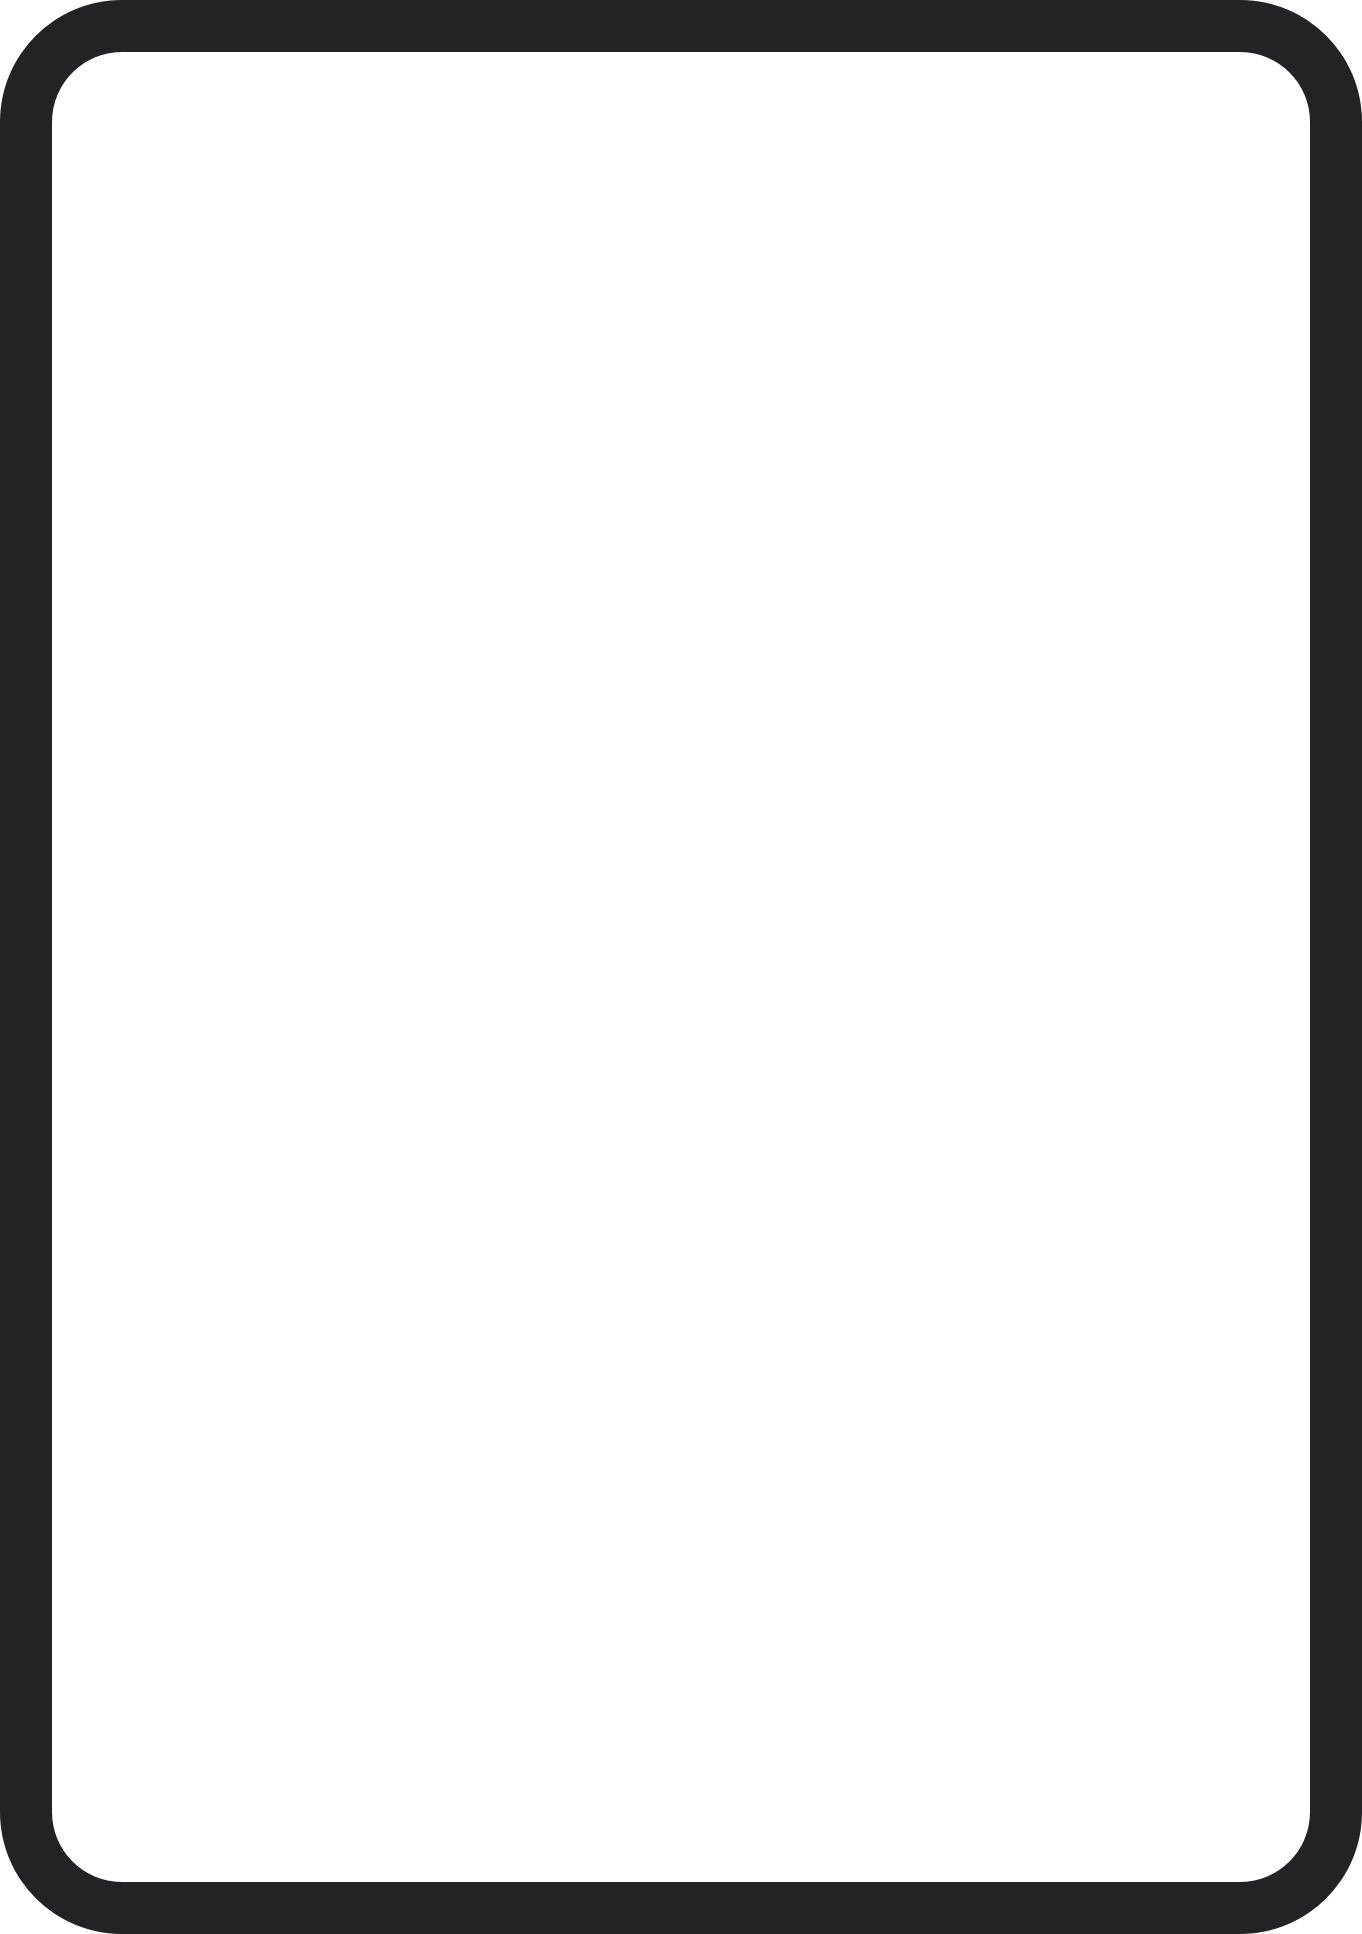
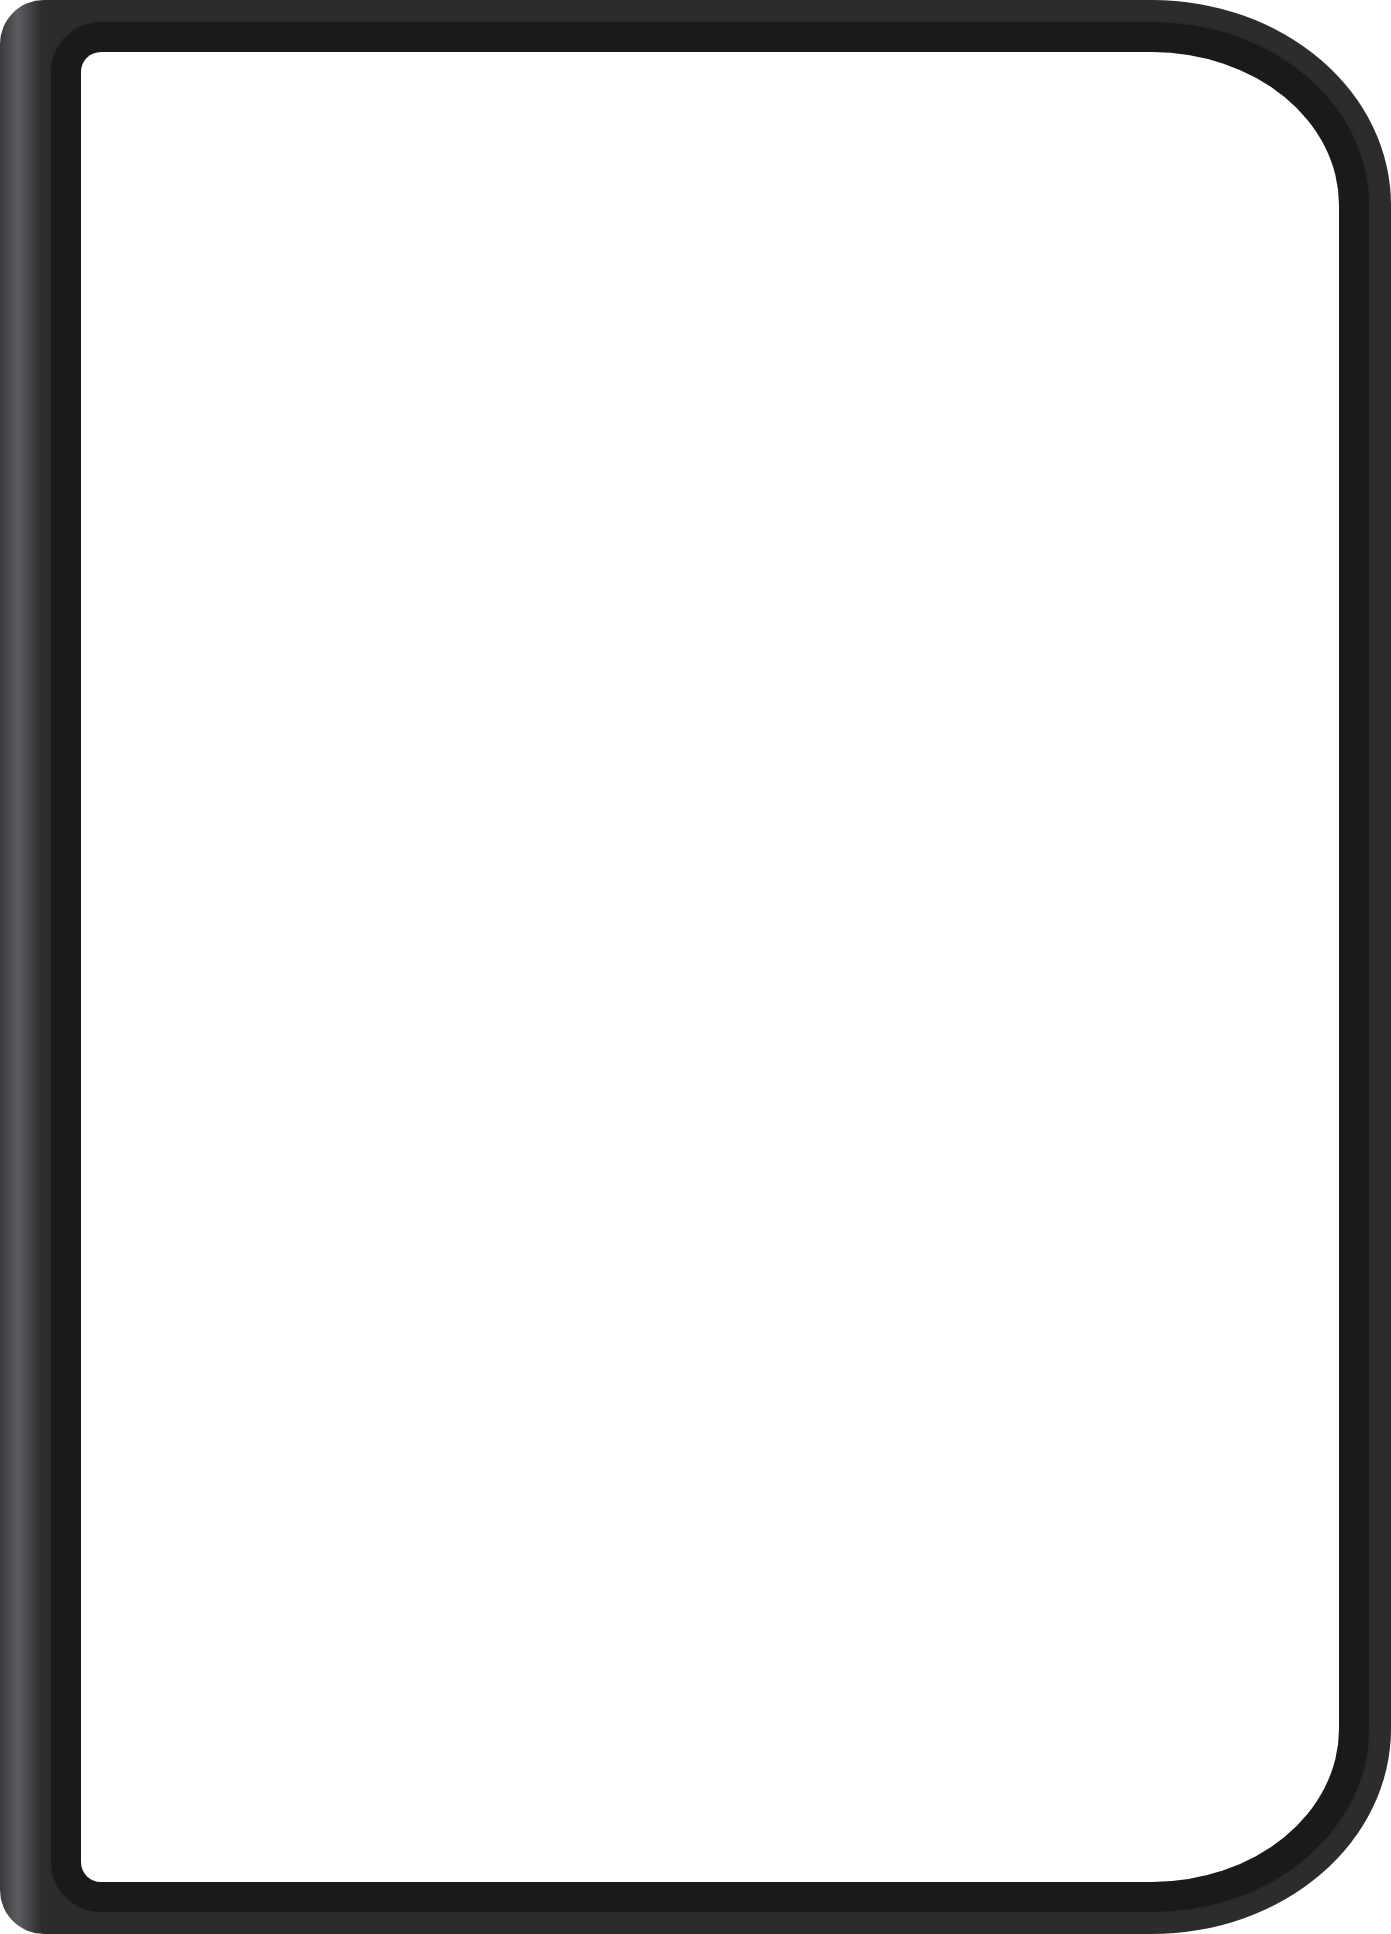
Shape the iPhone Duo frame like Apple's outer-display diagram
The frame was a symmetric rounded rectangle. Apple's "Designing for iPhone
Duo" diagram shows the hinge along the left edge, squarer corners on that
side, large rounded corners on the other, and the camera near the top right.

A frame can now give the leading (hinge) side its own corner radius and a
camera cutout drawn over the screenshot; the camera sits where the
simulator draws its hole. iPhone and iPad slides are unchanged.

Changed region(s): [[0.0, 0.0, 0.0925, 1.0], [0.8326, 0.8997, 1.0, 1.0], [0.8634, 0.0, 1.0, 0.0931]]

diff --git a/src/marketing.ts b/src/marketing.ts
@@ -25,6 +25,11 @@ export interface FrameGeometry {
   /** Elliptical corner radius of the screen cutout, as a fraction of the screen box's own width/height. */
   screenRadiusXPct: number;
   screenRadiusYPct: number;
+  /** Corner radius on the leading (left) side instead, where a hinge squares the screen's corners. */
+  screenLeadingRadiusXPct?: number;
+  screenLeadingRadiusYPct?: number;
+  /** A camera cutout drawn over the screenshot: centre and diameter as fractions of the screen box's width/height. */
+  camera?: { centerXPct: number; centerYPct: number; diameterPct: number };
   /** Filename under assets/device-frames/ (also the emitted assets/<name> filename). */
   assetFile: string;
 }
@@ -37,11 +42,14 @@ export const IPHONE_FRAME: FrameGeometry = { canvasWidthPx: 1022, canvasHeightPx
 // geometry below must match exactly what generated that file (see docs comment there / PR body).
 export const IPAD_FRAME: FrameGeometry = { canvasWidthPx: 1600, canvasHeightPx: 2078, screenLeftPct: 70 / 1600, screenTopPct: 70 / 2078, screenWidthPct: 1460 / 1600, screenHeightPct: 1938 / 2078, screenRadiusXPct: 40 / 1460, screenRadiusYPct: 40 / 1938, assetFile: "ipad-frame.png" };
 
-// Generated geometric frame in the iPad frame's style and bezel colour (#1A1A1C): a 52 px bezel,
-// outer corner radius 122, and a transparent 1258x1830 cutout with radius 70, in the outer
-// display's aspect (1398x2034, the display the simulator captures folded). An inner-display
-// capture (2007x2853) is slightly narrower in aspect and is cropped about 2% at the sides.
-export const IPHONE_DUO_FRAME: FrameGeometry = { canvasWidthPx: 1362, canvasHeightPx: 1934, screenLeftPct: 52 / 1362, screenTopPct: 52 / 1934, screenWidthPct: 1258 / 1362, screenHeightPct: 1830 / 1934, screenRadiusXPct: 70 / 1258, screenRadiusYPct: 70 / 1830, assetFile: "iphone-duo-frame.png" };
+// Generated frame in the shape Apple's "Designing for iPhone Duo" diagrams give the outer display
+// (Human Interface Guidelines, Anatomy): the hinge along the left edge, with squarer corners on that
+// side and the large rounded corners on the other. A 32 px bezel in the iPad frame's colour (#1A1A1C)
+// around a transparent 1258x1830 cutout in the outer display's aspect (1398x2034), inside the back
+// half's rim: 20 px, and 49 px along the hinge. The camera sits where the simulator draws its hole,
+// near the top right; it is drawn over the screenshot, so every slide shows it in the same place.
+// An inner-display capture (2007x2853) is slightly narrower in aspect and is cropped about 2% at the sides.
+export const IPHONE_DUO_FRAME: FrameGeometry = { canvasWidthPx: 1391, canvasHeightPx: 1934, screenLeftPct: 81 / 1391, screenTopPct: 52 / 1934, screenWidthPct: 1258 / 1391, screenHeightPct: 1830 / 1934, screenRadiusXPct: 187 / 1258, screenRadiusYPct: 153 / 1830, screenLeadingRadiusXPct: 20 / 1258, screenLeadingRadiusYPct: 20 / 1830, camera: { centerXPct: 0.897, centerYPct: 0.0703, diameterPct: 0.0794 }, assetFile: "iphone-duo-frame.png" };
 
 export function frameForFamily(family: ScreenshotFamily): FrameGeometry { return family === "iphone" ? IPHONE_FRAME : family === "iphone-duo" ? IPHONE_DUO_FRAME : IPAD_FRAME; }
 
@@ -214,6 +222,9 @@ export function renderSlideHtml(entry: MarketingSlideEntry): string {
   const screenHeight = box.height * frame.screenHeightPct;
   const radiusX = screenWidth * frame.screenRadiusXPct;
   const radiusY = screenHeight * frame.screenRadiusYPct;
+  const leadingX = screenWidth * (frame.screenLeadingRadiusXPct ?? frame.screenRadiusXPct);
+  const leadingY = screenHeight * (frame.screenLeadingRadiusYPct ?? frame.screenRadiusYPct);
+  const camera = frame.camera;
   const captionTop = Math.round(entry.height * CAPTION_TOP_FRACTION) + (entry.confirmed ? 0 : 70);
   const captionSide = Math.round(entry.width * CAPTION_SIDE_MARGIN_FRACTION);
   const hasCaption = Boolean(entry.caption && entry.caption.trim());
@@ -283,7 +294,7 @@ export function renderSlideHtml(entry: MarketingSlideEntry): string {
     top: ${round(screenTop - box.top)}px;
     width: ${round(screenWidth)}px;
     height: ${round(screenHeight)}px;
-    border-radius: ${round(radiusX)}px / ${round(radiusY)}px;
+    border-radius: ${round(leadingX)}px ${round(radiusX)}px ${round(radiusX)}px ${round(leadingX)}px / ${round(leadingY)}px ${round(radiusY)}px ${round(radiusY)}px ${round(leadingY)}px;
     overflow: hidden;
     background: #D9D2C4;
   }
@@ -305,6 +316,11 @@ export function renderSlideHtml(entry: MarketingSlideEntry): string {
     font-size: ${Math.round(fontSize * 0.3)}px;
     padding: 8%;
   }
+  .screenshot-wrap .camera {
+    position: absolute;
+    border-radius: 50%;
+    background: #000000;
+  }
   .device img.frame {
     position: absolute;
     inset: 0;
@@ -323,6 +339,7 @@ export function renderSlideHtml(entry: MarketingSlideEntry): string {
       <img class="screenshot" alt="" src="${escapeAttr(entry.screenshotPngHref)}" data-fallback-src="${escapeAttr(entry.screenshotJpgHref)}"
         onerror="if(!this.dataset.triedFallback){this.dataset.triedFallback='1';this.src=this.dataset.fallbackSrc;}else{this.style.display='none';this.nextElementSibling.style.display='flex';}">
       <div class="missing">Screenshot pending for scenario '${escapeHtml(entry.id)}' — run shiplayer capture, then re-run export.</div>
+      ${camera ? `<div class="camera" style="left: ${round(screenWidth * camera.centerXPct - screenWidth * camera.diameterPct / 2)}px; top: ${round(screenHeight * camera.centerYPct - screenWidth * camera.diameterPct / 2)}px; width: ${round(screenWidth * camera.diameterPct)}px; height: ${round(screenWidth * camera.diameterPct)}px;"></div>` : ""}
     </div>
   </div>
 </div>

diff --git a/test/iphone-duo.test.ts b/test/iphone-duo.test.ts
@@ -10,7 +10,7 @@ import { localScreenshotSets } from "../src/asc-apply.js";
 import { generateReleasePackage } from "../src/generator.js";
 import { analyzeRepository } from "../src/scanner.js";
 import { validateManifest, writeManifest } from "../src/manifest.js";
-import { frameForFamily, IPHONE_DUO_FRAME } from "../src/marketing.js";
+import { frameForFamily, IPHONE_DUO_FRAME, renderSlideHtml } from "../src/marketing.js";
 import { inspectImage } from "../src/image.js";
 import type { ShipLayerManifest } from "../src/types.js";
 import { scenariosForFamily } from "../src/types.js";
@@ -129,4 +129,27 @@ test("an iPhone Duo deck uses the iPhone scenarios, never iPad-only ones", () =>
     { id: "landscape", title: "iPad only", steps: ["Rotate"], confirmation: "confirmed", families: ["ipad"] }
   ];
   assert.deepEqual(scenariosForFamily(manifest, "iphone-duo").map((scenario) => scenario.id), ["home", "phone"]);
+});
+
+function slide(family: "iphone" | "iphone-duo"): string {
+  const { width, height } = family === "iphone" ? { width: 1320, height: 2868 } : OUTER;
+  return renderSlideHtml({ id: "home", title: "Home", caption: "Caption", confirmed: true, family, device: family === "iphone" ? "iPhone 17 Pro Max" : "iPhone Duo", locale: "en-US", width, height,
+    screenshotPngHref: "home.png", screenshotJpgHref: "home.jpg", frameHref: "frame.png", htmlRelativePath: "", outputRelativePath: "" });
+}
+
+test("a Duo slide squares the screen's hinge-side corners and draws the camera over the screenshot", () => {
+  const html = slide("iphone-duo");
+  const radius = /\.screenshot-wrap \{[^}]*border-radius: ([^;]+);/.exec(html)?.[1] ?? "";
+  const [horizontal, vertical] = radius.split(" / ").map((side) => side.split(" ").map((value) => Number.parseFloat(value)));
+  assert.equal(horizontal.length, 4); assert.equal(vertical.length, 4);
+  assert.ok(horizontal[0] < horizontal[1] / 4 && horizontal[3] === horizontal[0], `hinge corners on the left: ${radius}`);
+  assert.equal(horizontal[1], horizontal[2]);
+  assert.ok(html.includes('<div class="camera"'));
+});
+
+test("an iPhone slide keeps one corner radius and no camera", () => {
+  const html = slide("iphone");
+  const radius = /\.screenshot-wrap \{[^}]*border-radius: ([^;]+);/.exec(html)?.[1] ?? "";
+  assert.equal(new Set(radius.split(" / ")[0].split(" ")).size, 1, radius);
+  assert.ok(!html.includes('<div class="camera"'));
 });

diff --git a/docs/screenshots.md b/docs/screenshots.md
@@ -20,7 +20,7 @@ iPhone Duo has its own App Store screenshot slot, so it is a screenshot configur
 
 - Capture needs Xcode 27.1 or later with the iOS 27.1 simulator, which includes the iPhone Duo. The simulator has two displays: name the right one when capturing outside XCUITest (`xcrun simctl io <device> screenshot --display=<id>`; `xcrun simctl io <device> enumerate` lists them).
 - `apply` uploads the set as `APP_IPHONE_DUO`. App Store Connect accepts that value and shows the set in its iPhone Duo gallery, but Apple's published `ScreenshotDisplayType` reference does not list it yet (checked 2026-10-06), so `check` warns on every Duo configuration. Check the first upload in App Store Connect; if Apple names the slot differently, update ShipLayer before applying again.
-- The marketing frame (`assets/device-frames/iphone-duo-frame.png`) is generated in the iPad frame's style with its screen in the outer display's aspect. An inner-display capture is about 2% narrower in aspect and is cropped at the sides.
+- The marketing frame (`assets/device-frames/iphone-duo-frame.png`) is generated in the shape of Apple's outer-display diagram in the Human Interface Guidelines ("Designing for iPhone Duo", Anatomy): the hinge along the left edge with squarer corners on that side, the large rounded corners on the other, and the camera near the top right, drawn over the screenshot where the simulator shows it. Its screen is in the outer display's aspect; an inner-display capture is about 2% narrower in aspect and is cropped at the sides.
 
 ## Marketing screenshot composition
 
